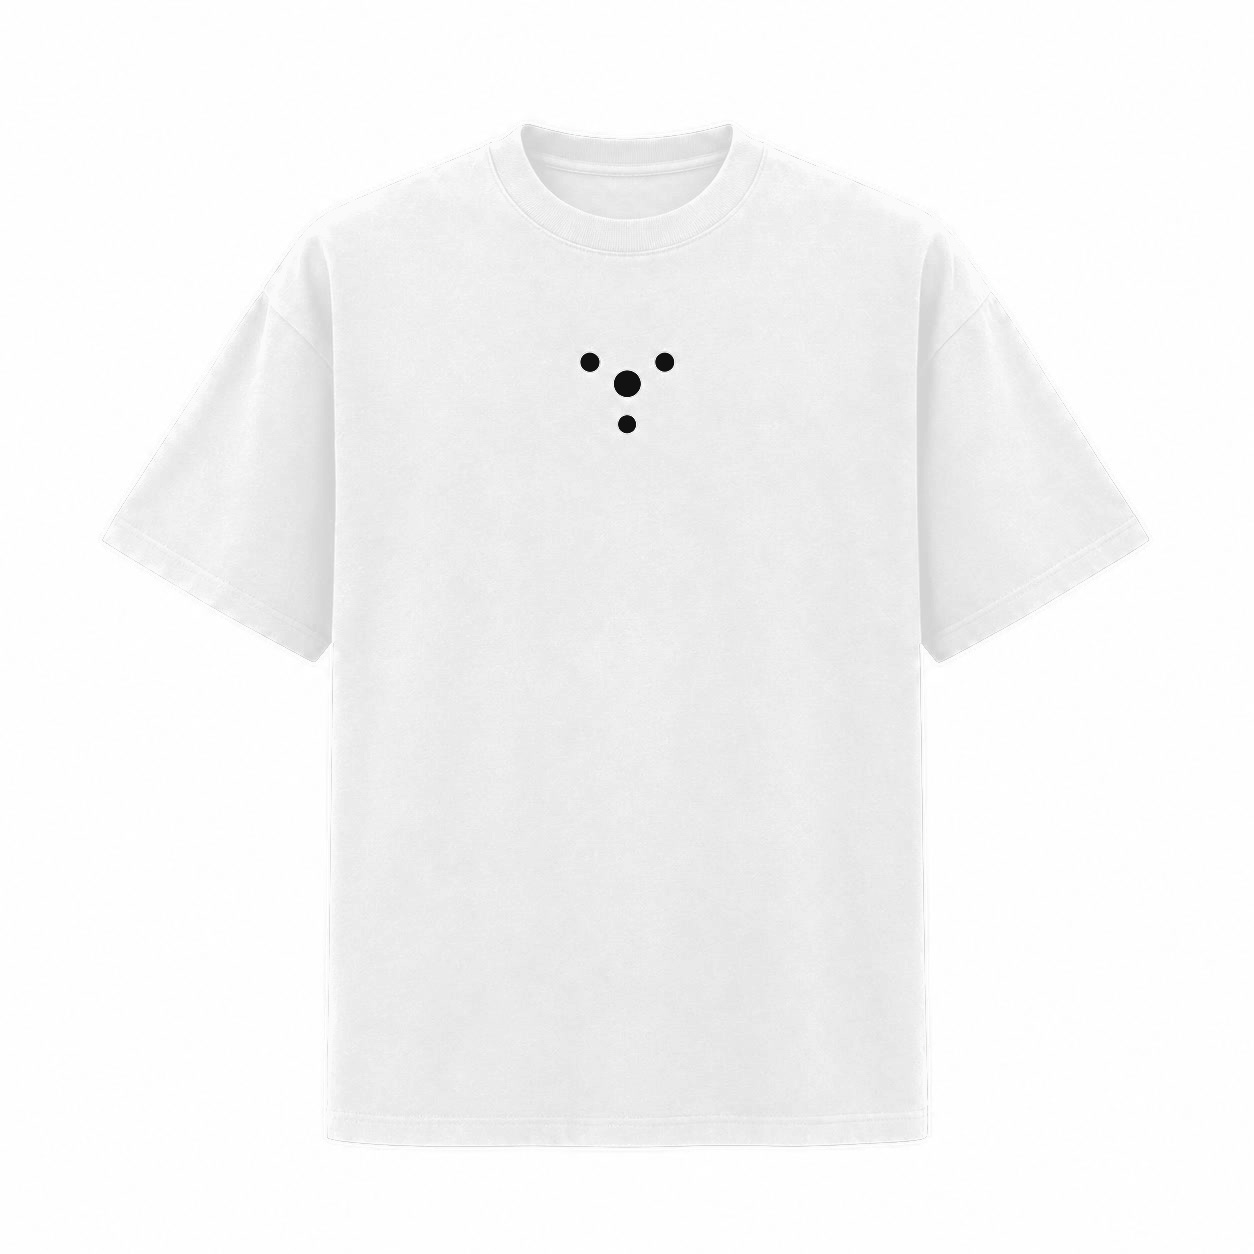
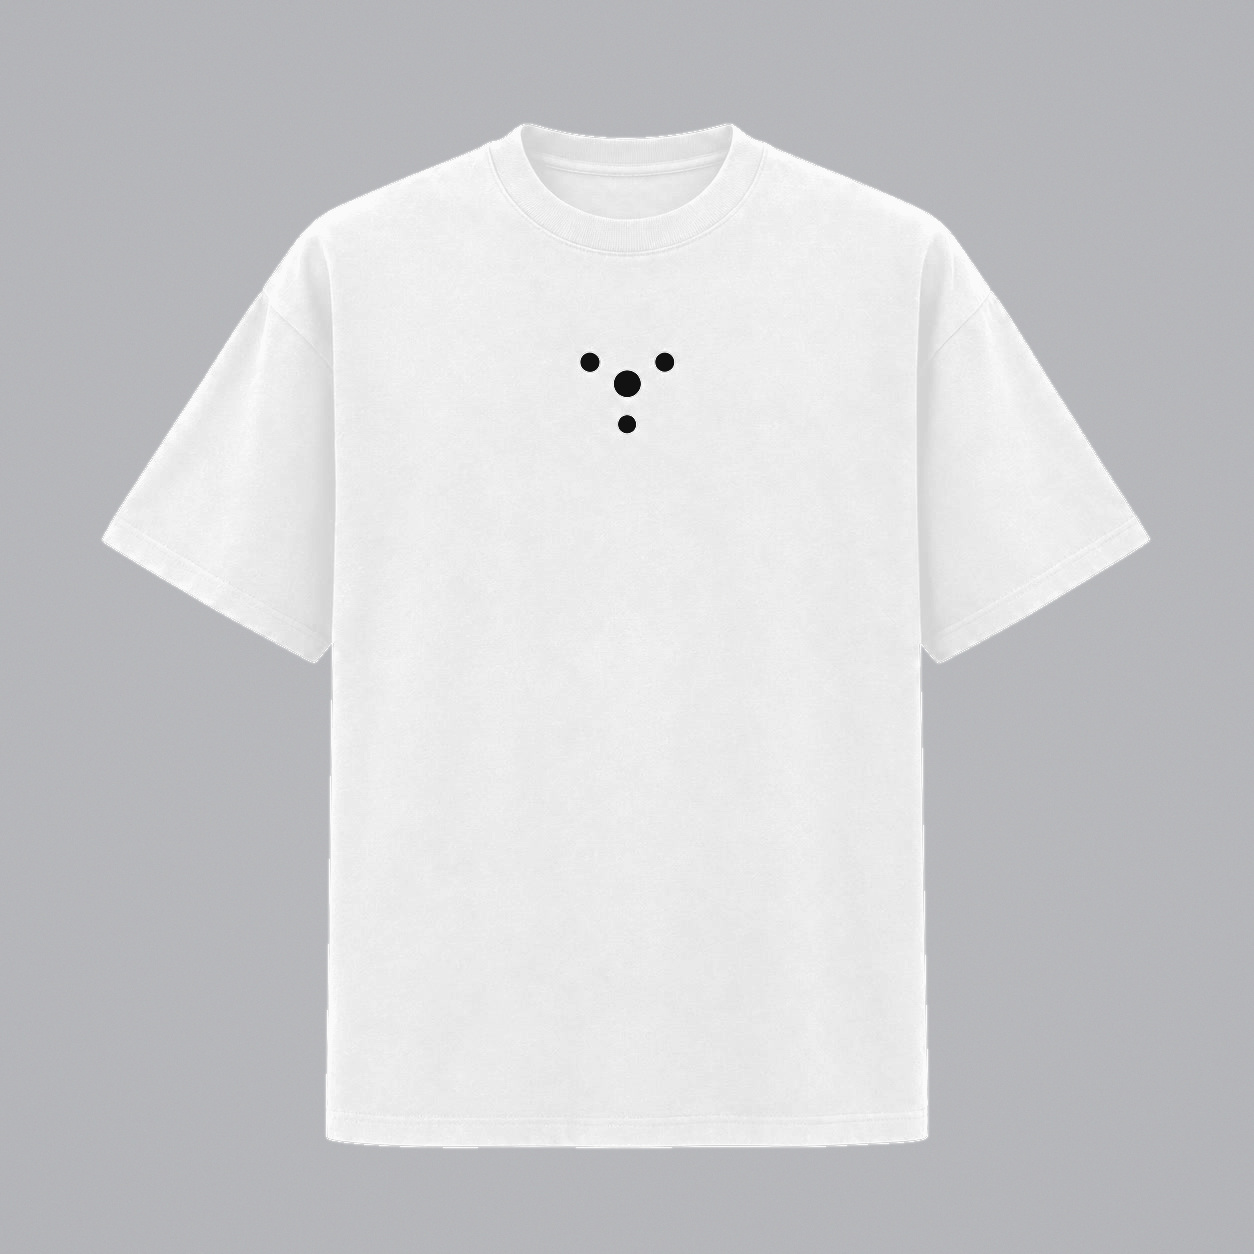
Make oversized tee grey available with studio-gray mockups.
Restock grey, add matching front and back shots that keep the chest logo in place, and put a gray backdrop behind the tees so the white shirt reads clearly.

diff --git a/web/src/app/products/[slug]/page.tsx b/web/src/app/products/[slug]/page.tsx
@@ -534,7 +534,7 @@ export default async function ProductDetailPage({ params }: { params: Promise<{ 
               : isViolettePonybead
               ? VIOLETTE_PONYBEAD_HOW_ITS_MADE
               : apparelItem?.slug === "voronyz-oversized-tee"
-              ? "Cut oversized on purpose — soft hand-feel, roomy through the body and sleeves. Shipping now in black and white, XS through XXL — grey is out of stock. Price steps down for smaller sizes and up for larger ones from Medium."
+              ? "Cut oversized on purpose — soft hand-feel, roomy through the body and sleeves. Shipping now in black, white, and grey, XS through XXL. Price steps down for smaller sizes and up for larger ones from Medium."
               : apparelItem?.slug === "voronyz-core-hoodie"
               ? "Heavyweight fleece with a clean, modern cut. Black, grey, and white — pick a color to see that hoodie, then swipe to the second photo for the back. Grey costs a little more than black; white is the top color. Large is priced under Medium so it reads as the deal size."
               : isApparel && apparelItem?.comingSoon
@@ -588,7 +588,7 @@ export default async function ProductDetailPage({ params }: { params: Promise<{ 
                   ? "XS–XXL. Large is priced under Medium — the deal size on this hoodie."
                 : "This piece runs XS–XXL." },
               { q: "What colors are available?", a: apparelItem?.slug === "voronyz-oversized-tee"
-                ? "Black and white are in stock. Grey is currently out of stock."
+                ? "Black, white, and grey are in stock. Pick a color to see the matching front and back shots."
                 : apparelItem?.slug === "voronyz-core-hoodie"
                   ? "Black, grey, and white. Black uses the original hoodie photo; grey costs a little more, and white is the most expensive. The gallery updates to the selected color, with the back of the same hoodie on the second photo."
                   : apparelItem?.outOfStockColors?.includes("grey")

diff --git a/web/src/lib/apparel.test.ts b/web/src/lib/apparel.test.ts
@@ -99,6 +99,15 @@ test("white oversized tee uses the black-logo mockup and a plain white back", ()
   ]);
 });
 
+test("grey oversized tee has matching front and back shots with the same chest logo layout", () => {
+  const tee = getApparelItem("voronyz-oversized-tee");
+  assert.ok(tee);
+  assert.deepEqual(getApparelImagesForColor(tee, "grey"), [
+    "/products/apparel/shirt-front-grey.jpg",
+    "/products/apparel/shirt-back-blank-grey.jpg",
+  ]);
+});
+
 test("flat-lay tee photos keep a centered square crop", () => {
   assert.equal(
     apparelCoverObjectPositionClass("/products/apparel/shirt-back-blank.jpg"),
@@ -120,18 +129,18 @@ test("unknown apparel slugs fall back to Apparel", () => {
   assert.equal(apparelProductShopLabel("not-a-product"), "Back to Apparel");
 });
 
-test("grey is out of stock on tees and shades; oversized tee sizes XS–XXL are in stock", () => {
+test("grey is in stock on tees and the hoodie, and out of stock on shades; oversized tee sizes XS–XXL are in stock", () => {
   const tee = getApparelItem("voronyz-oversized-tee");
   const hoodie = getApparelItem("voronyz-core-hoodie");
   const shades = getApparelItem("voronyz-cool-shades");
   assert.ok(tee && hoodie && shades);
 
-  assert.equal(isApparelColorOutOfStock(tee, "grey"), true);
+  assert.equal(isApparelColorOutOfStock(tee, "grey"), false);
   assert.equal(isApparelColorOutOfStock(tee, "white"), false);
   assert.equal(isApparelColorOutOfStock(tee, "black"), false);
   assert.equal(apparelVariantStock(tee, "black"), 999);
   assert.equal(apparelVariantStock(tee, "white"), 999);
-  assert.equal(apparelVariantStock(tee, "grey"), 0);
+  assert.equal(apparelVariantStock(tee, "grey"), 999);
   for (const size of tee.sizes) {
     assert.equal(isApparelSizeAvailable(tee, size), true);
   }

diff --git a/web/src/lib/apparel.ts b/web/src/lib/apparel.ts
@@ -185,7 +185,6 @@ export const APPAREL_CATALOG: ApparelCatalogItem[] = [
     description: "Built big on purpose — soft, roomy, and easy to wear.",
     priceCents: 4800,
     colors: ["black", "white", "grey"],
-    outOfStockColors: ["grey"],
     sizes: [...APPAREL_SIZES],
     sizePriceCents: {
       XS: 4200,
@@ -204,6 +203,10 @@ export const APPAREL_CATALOG: ApparelCatalogItem[] = [
       white: [
         "/products/apparel/shirt-front-white.jpg",
         "/products/apparel/shirt-back-blank-white.jpg",
+      ],
+      grey: [
+        "/products/apparel/shirt-front-grey.jpg",
+        "/products/apparel/shirt-back-blank-grey.jpg",
       ],
     },
     skuPrefix: "APP-TEE",
